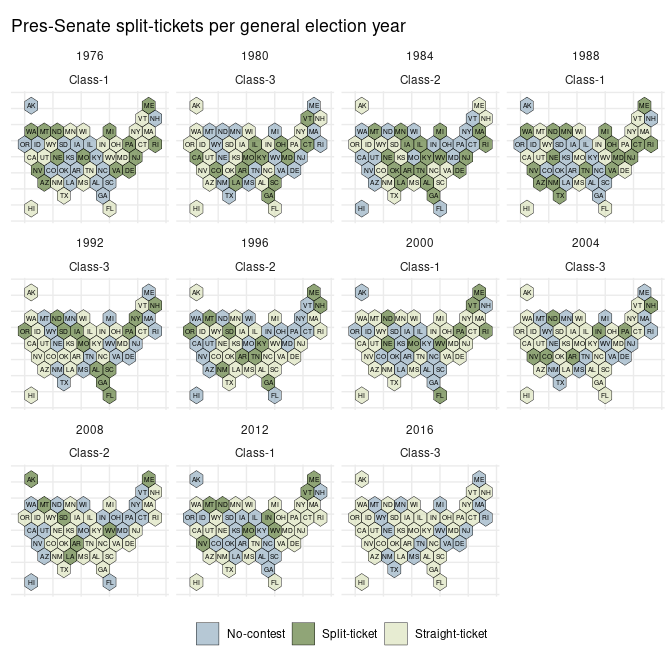
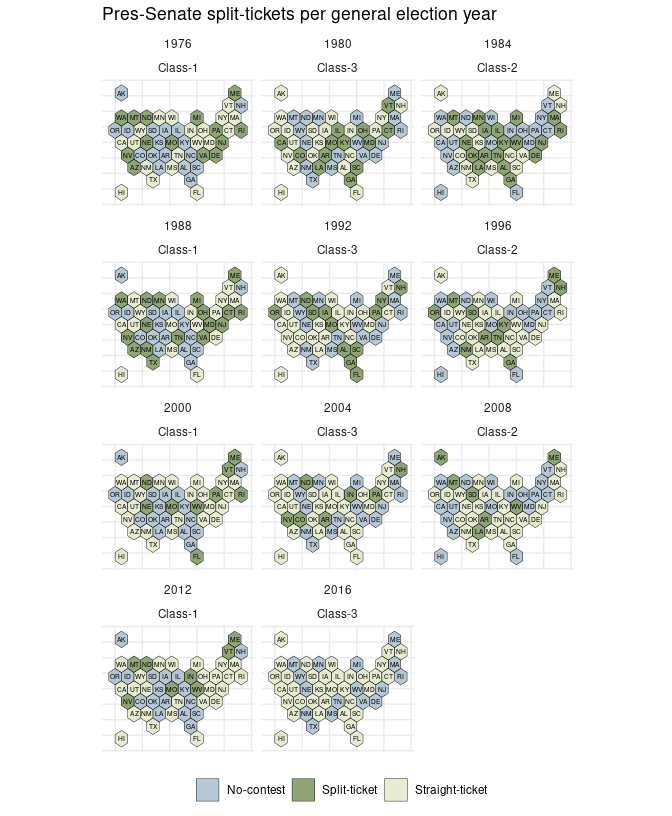
re

diff --git a/README.md b/README.md
@@ -209,8 +209,8 @@ vvo <- lapply(c('house', 'senate'), function(x) {
     filter(congress > con & chamber != 'President') }) #66
 ```
 
-    ## [1] "/tmp/Rtmp9PudXI/Hall_members.csv"
-    ## [1] "/tmp/Rtmp9PudXI/Sall_members.csv"
+    ## [1] "/tmp/RtmpjSbR2h/Hall_members.csv"
+    ## [1] "/tmp/RtmpjSbR2h/Sall_members.csv"
 
 ``` r
 congress <- vvo %>%
@@ -579,7 +579,7 @@ uspols::xsf_TileOutv10 %>%
 
   scale_fill_manual(values = c('#8faabe', '#55752f', 
                                '#dae2ba')) + #, 
-  facet_wrap(~year + class) +
+  facet_wrap(~year + class, ncol = 3) +
   theme_minimal() + 
   theme_guide() +
   theme(legend.position = 'bottom') +
